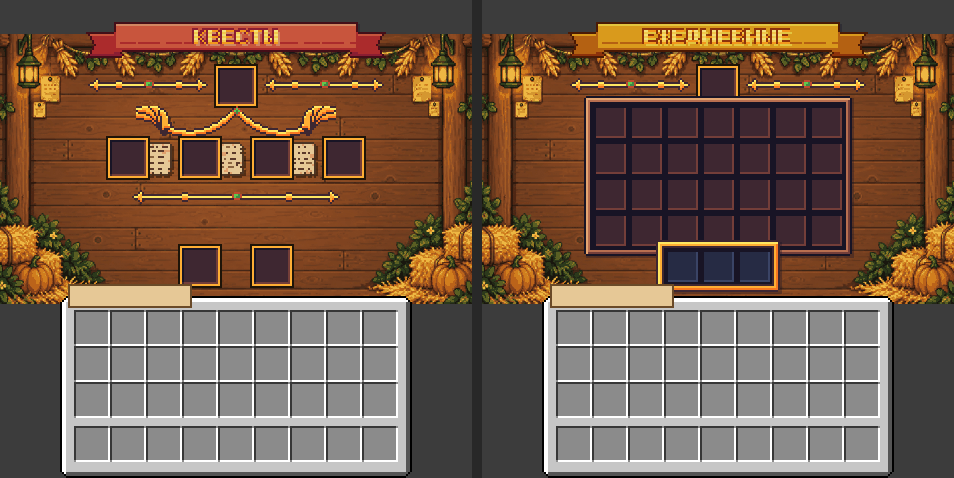
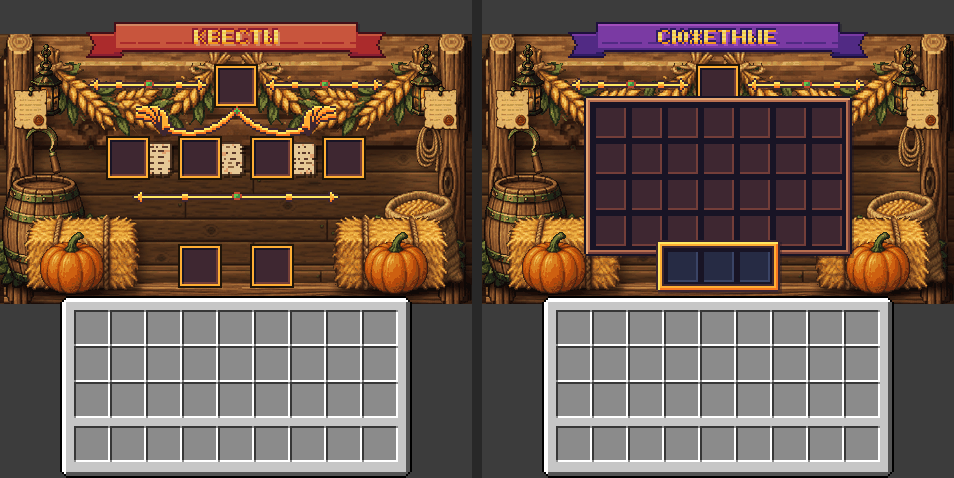
Barn scene composed from generated parts with shadows and depth; no inventory plaque
Claude-Session: https://claude.ai/code/session_015YcF29gpWmsD2yM9RNNMWT

diff --git a/ZenQuests/gui-specs/scene_compose.py b/ZenQuests/gui-specs/scene_compose.py
@@ -1,0 +1,96 @@
+"""Сборка HD-сцены амбара 472x270 (2 px текстуры на 1 px интерфейса) из отдельных частей:
+стена (тайл) с виньеткой и тёплым светом фонарей -> балка -> столбы с тенью на стене -> гирлянды -> записки ->
+кусты (задний план) -> бочка/мешок -> сено -> тыквы (передний план). У каждой части — мягкая тень на стене
+и контактная тень снизу, свет сверху-слева."""
+import sys, os
+from PIL import Image, ImageFilter, ImageDraw, ImageChops
+
+A = os.path.dirname(os.path.abspath(__file__)); OUT = sys.argv[1]
+W, H = 472, 270
+G = 2                       # px текстуры на 1 px интерфейса
+
+def load(n, gw=None, gh=None):
+    im = Image.open(f'{A}/raw/{n}.png').convert('RGBA')
+    if gw: s = gw * G / im.width
+    else: s = gh * G / im.height
+    im = im.resize((max(1, round(im.width * s)), max(1, round(im.height * s))), Image.LANCZOS)
+    # жёсткая альфа — пиксель-арт без полупрозрачных краёв
+    r, g, b, a = im.split(); a = a.point(lambda v: 255 if v > 110 else 0); im.putalpha(a)
+    return im
+
+scene = Image.new('RGBA', (W, H), (0, 0, 0, 255))
+# ── стена: тайл + виньетка ──
+wall = Image.open(f'{A}/wall_full.png').convert('RGB')
+tile = wall.resize((236, 236), Image.LANCZOS)
+for y in range(0, H, 236):
+    for x in range(0, W, 236): scene.paste(tile, (x, y))
+vig = Image.new('L', (W, H), 0); d = ImageDraw.Draw(vig)
+for i in range(60):                    # затемнение к краям и низу
+    k = int(255 * (i / 60) ** 1.6)
+    d.rectangle([i, i, W - 1 - i, H - 1 - i + 30], outline=k)
+vig = vig.filter(ImageFilter.GaussianBlur(14))
+dark = Image.new('RGBA', (W, H), (20, 10, 4, 255)); dark.putalpha(vig.point(lambda v: int((255 - v) * 0.55)))
+scene.alpha_composite(dark)
+
+def shadow(sprite, pos, off=(5, 6), alpha=110, blur=4):
+    sh = Image.new('RGBA', (W, H), (0, 0, 0, 0)); m = sprite.split()[3]
+    sh.paste(Image.new('RGBA', sprite.size, (15, 6, 2, alpha)), (pos[0] + off[0], pos[1] + off[1]), m)
+    scene.alpha_composite(sh.filter(ImageFilter.GaussianBlur(blur)))
+
+def contact(cx, bottom, w, h=8, alpha=130):
+    sh = Image.new('RGBA', (W, H), (0, 0, 0, 0)); ImageDraw.Draw(sh).ellipse([cx - w // 2, bottom - h // 2, cx + w // 2, bottom + h // 2], fill=(10, 4, 0, alpha))
+    scene.alpha_composite(sh.filter(ImageFilter.GaussianBlur(3)))
+
+def put(sprite, pos, sh=True, **kw):
+    if sh: shadow(sprite, pos, **kw)
+    scene.alpha_composite(sprite, pos)
+
+def glow(cx, cy, r, color=(255, 190, 90), alpha=95):
+    gl = Image.new('RGBA', (W, H), (0, 0, 0, 0)); ImageDraw.Draw(gl).ellipse([cx - r, cy - r, cx + r, cy + r], fill=color + (alpha,))
+    scene.alpha_composite(gl.filter(ImageFilter.GaussianBlur(r // 2)))
+
+# ── свет фонарей на стене (до самих фонарей) ──
+glow(52, 70, 70); glow(W - 52, 70, 70)
+# ── верхняя балка ──
+beam = load('beam', gw=236); beam = beam.resize((W, beam.height), Image.LANCZOS)
+put(beam, (0, -2), off=(0, 6), alpha=140)
+# ── пол: тёмная половая доска внизу ──
+floor = beam.resize((W, 22), Image.LANCZOS); put(floor, (0, H - 22), off=(0, -5), alpha=120)
+# ── столбы ──
+post = load('post', gh=140)
+post = post.resize((28, post.height), Image.LANCZOS)                 # столб 14 GUI px шириной, во всю высоту
+r_, g_, b_, a_ = post.split(); post.putalpha(a_.point(lambda v: 255 if v > 110 else 0))
+for x in (6, W - 6 - post.width):
+    put(post, (x, -6), off=(8, 0), alpha=130, blur=6)
+# ── гирлянды по верхним углам, под балкой ──
+gar = load('garland', gw=100)
+put(gar, (34, 12), off=(3, 6), alpha=100); put(gar.transpose(Image.FLIP_LEFT_RIGHT), (W - 34 - gar.width, 12), off=(3, 6), alpha=100)
+# ── фонари на столбах ──
+lan = load('lantern', gh=36)
+put(lan, (6 + post.width - 4, 10), off=(6, 8), alpha=120); put(lan, (W - 6 - post.width - lan.width + 4, 10), off=(6, 8), alpha=120)
+# ── верёвка и серп на правом столбе, записки ──
+rope = load('rope', gh=26); put(rope, (W - 56, 86), off=(3, 5))
+sick = load('sickle', gh=28); put(sick, (26, 84), off=(3, 5))
+note = load('note', gh=22); put(note, (14, 52), off=(2, 4)); put(note, (W - 14 - note.width, 52), off=(2, 4))
+# ── низ: кусты (задний план) ──
+bush = load('bush', gw=46)
+for x in (-6, 40, W - 40 - bush.width, W - 6 - bush.width):
+    contact(x + bush.width // 2, H - 20, bush.width + 10); put(bush, (x, H - 20 - bush.height + 6), off=(4, 5), alpha=90)
+# ── бочка слева, мешок справа (средний план) ──
+bar = load('barrel', gh=56); contact(2 + bar.width // 2, H - 18, bar.width); put(bar, (2, H - 18 - bar.height), off=(6, 4))
+sack = load('sack', gh=48); contact(W - 8 - sack.width // 2, H - 18, sack.width); put(sack, (W - 8 - sack.width, H - 18 - sack.height), off=(6, 4))
+# ── сено ──
+hay = load('hay', gw=58)
+contact(24 + hay.width // 2, H - 14, hay.width); put(hay, (24, H - 14 - hay.height), off=(6, 5))
+contact(W - 24 - hay.width // 2, H - 14, hay.width); put(hay.transpose(Image.FLIP_LEFT_RIGHT), (W - 24 - hay.width, H - 14 - hay.height), off=(6, 5))
+# ── тыквы (передний план) ──
+pum = load('pumpkin', gw=32)
+contact(40 + pum.width // 2, H - 10, pum.width); put(pum, (40, H - 10 - pum.height), off=(5, 4))
+contact(W - 44 - pum.width // 2, H - 10, pum.width); put(pum, (W - 44 - pum.width, H - 10 - pum.height), off=(5, 4))
+
+q = scene.convert('RGB').quantize(colors=96, method=Image.Quantize.MEDIANCUT, dither=Image.Dither.NONE).convert('RGBA')
+q.save(f'{OUT}/barn_hd.png')
+os.makedirs(f'{OUT}/scene', exist_ok=True)
+for n, b in {'scene_tl': (0, 0, 236, 136), 'scene_tr': (236, 0, 472, 136), 'scene_bl': (0, 136, 236, 270), 'scene_br': (236, 136, 472, 270)}.items():
+    q.crop(b).save(f'{OUT}/scene/{n}.png')
+print('scene ok', q.size)

diff --git a/ZenQuests/gui-specs/README.md b/ZenQuests/gui-specs/README.md
@@ -1,5 +1,11 @@
 # Фоны меню ZenQuests — спеки для скилла minecraft-nexo-gui
 
+Сцена собирается из частей (`scene_compose.py`, запускать из папки с `raw/` и `wall_full.png` — в репозитории это
+`art/parts/` и `art/wall_full.png`): тайл дощатой стены с виньеткой и тёплым светом фонарей, балка, столбы во всю
+высоту, гирлянды, записки, верёвка и серп, кусты (задний план), бочка и мешок, сено, тыквы (передний план); у каждой
+части мягкая тень на стене и контактная тень снизу. Части и стена сгенерированы Figma AI (`art/parts_full.png`,
+`art/wall_full.png`) и вырезаны по цвету фона. Плашки под «Инвентарь» больше нет.
+
 Текущая схема — HD: сцена `art/barn_hd.png` (472x270 = 2 px текстуры на 1 px интерфейса) режется на 4 плитки
 `textures/gui/scene/scene_{tl,tr,bl,br}.png` (236x136 / 236x134), в `menu_font.json` они — bitmap с `height` 68/67 и
 `ascent` 30 / -38; поверх идёт накладка меню 1x (`textures/gui/menu/<name>.png`, окно прозрачное, в (235,238) пиксель
